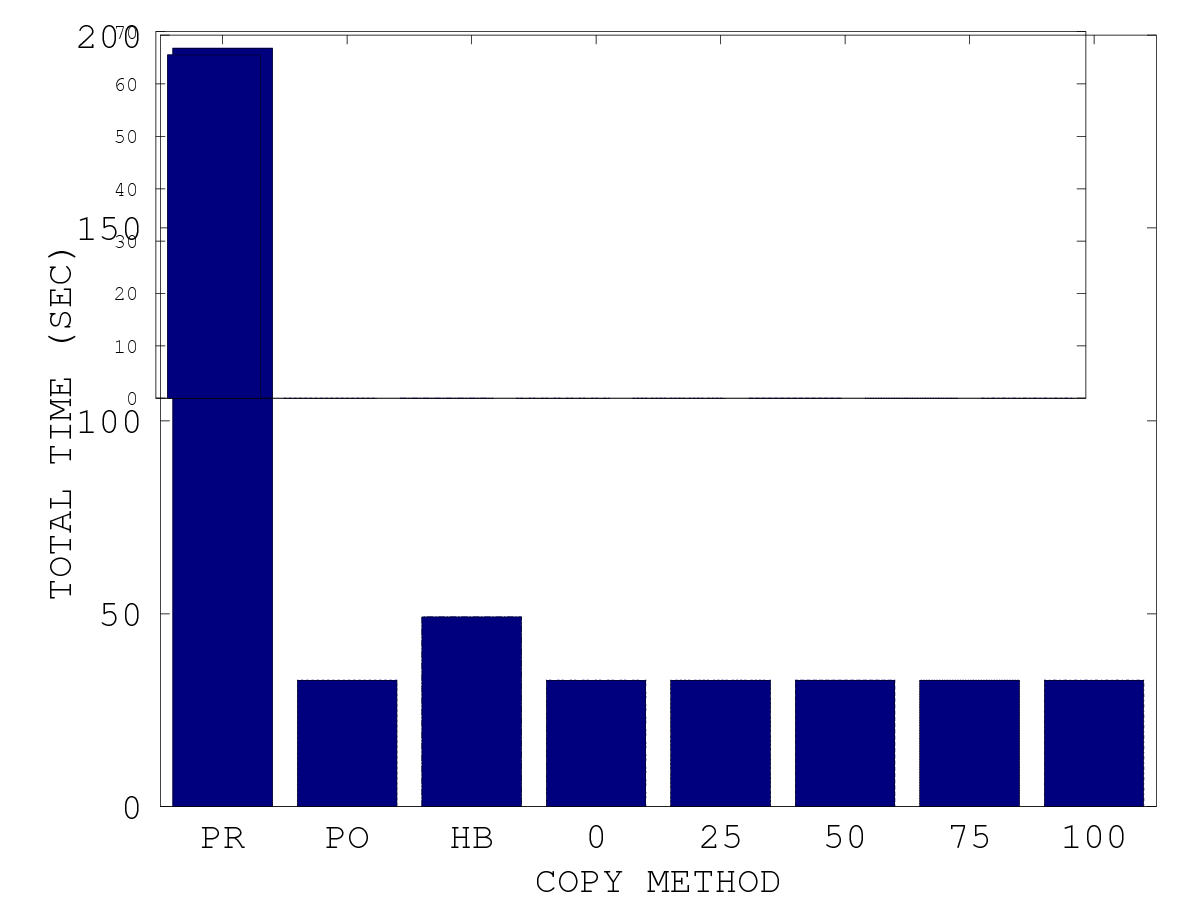
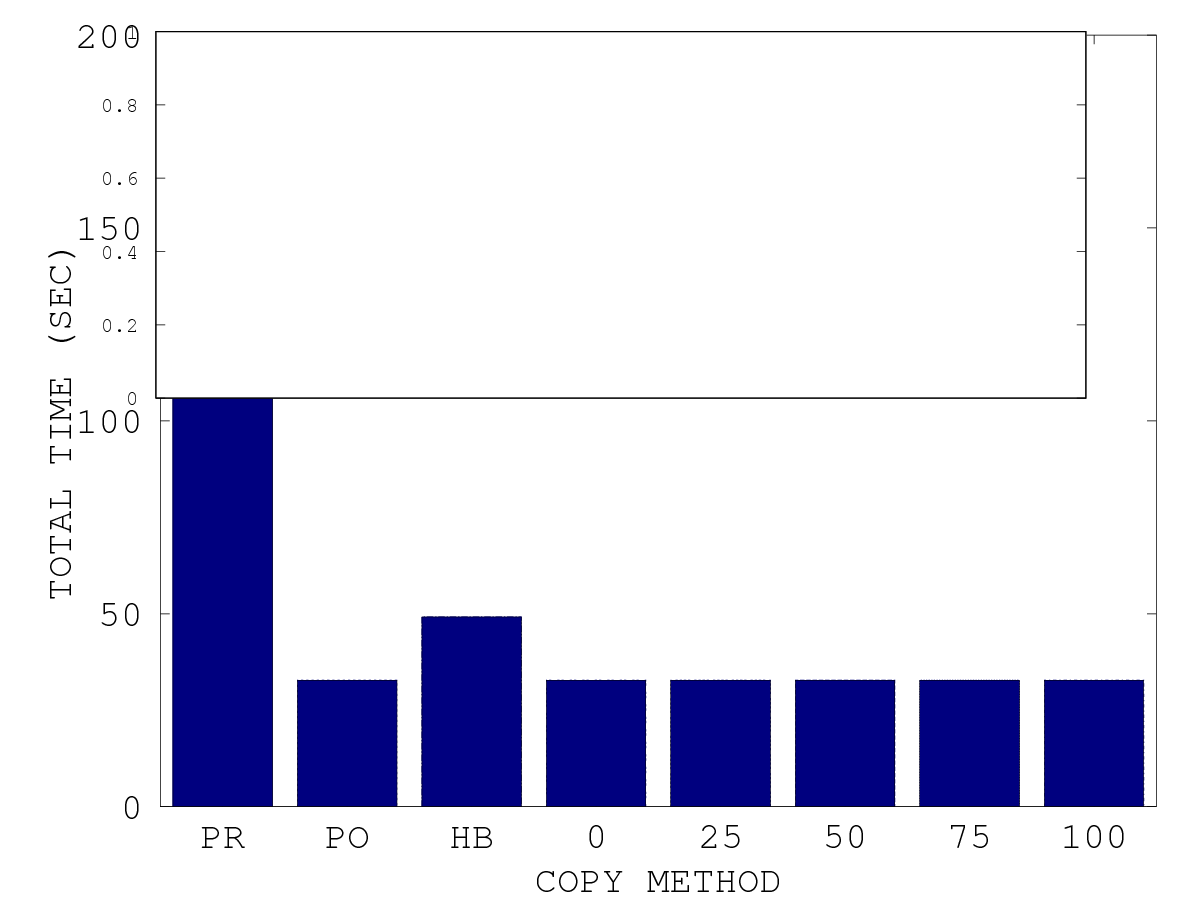
basic_break.m

Changed region(s): [[0.0925, 0.0311, 0.8942, 0.4667]]

diff --git a/basic_break.m b/basic_break.m
@@ -329,7 +329,7 @@ delete(gcf);
 %ylabel('DOWNTIME (SEC)', 'FontSize', fontsize);
 
 a2 = axes ('position', [p0(1) p0(4)/2+.15 p0(3) p0(4)/2]);
-bar(xintervals, A(:,2))
+%bar(xintervals, A(:,2))
 %set(a2, 'ylim', ylim2, 'FontSize', fontsize);
 set(a2, 'xtick', []);
 %ylabel('DOWNTIME (SEC)', 'FontSize', fontsize);
